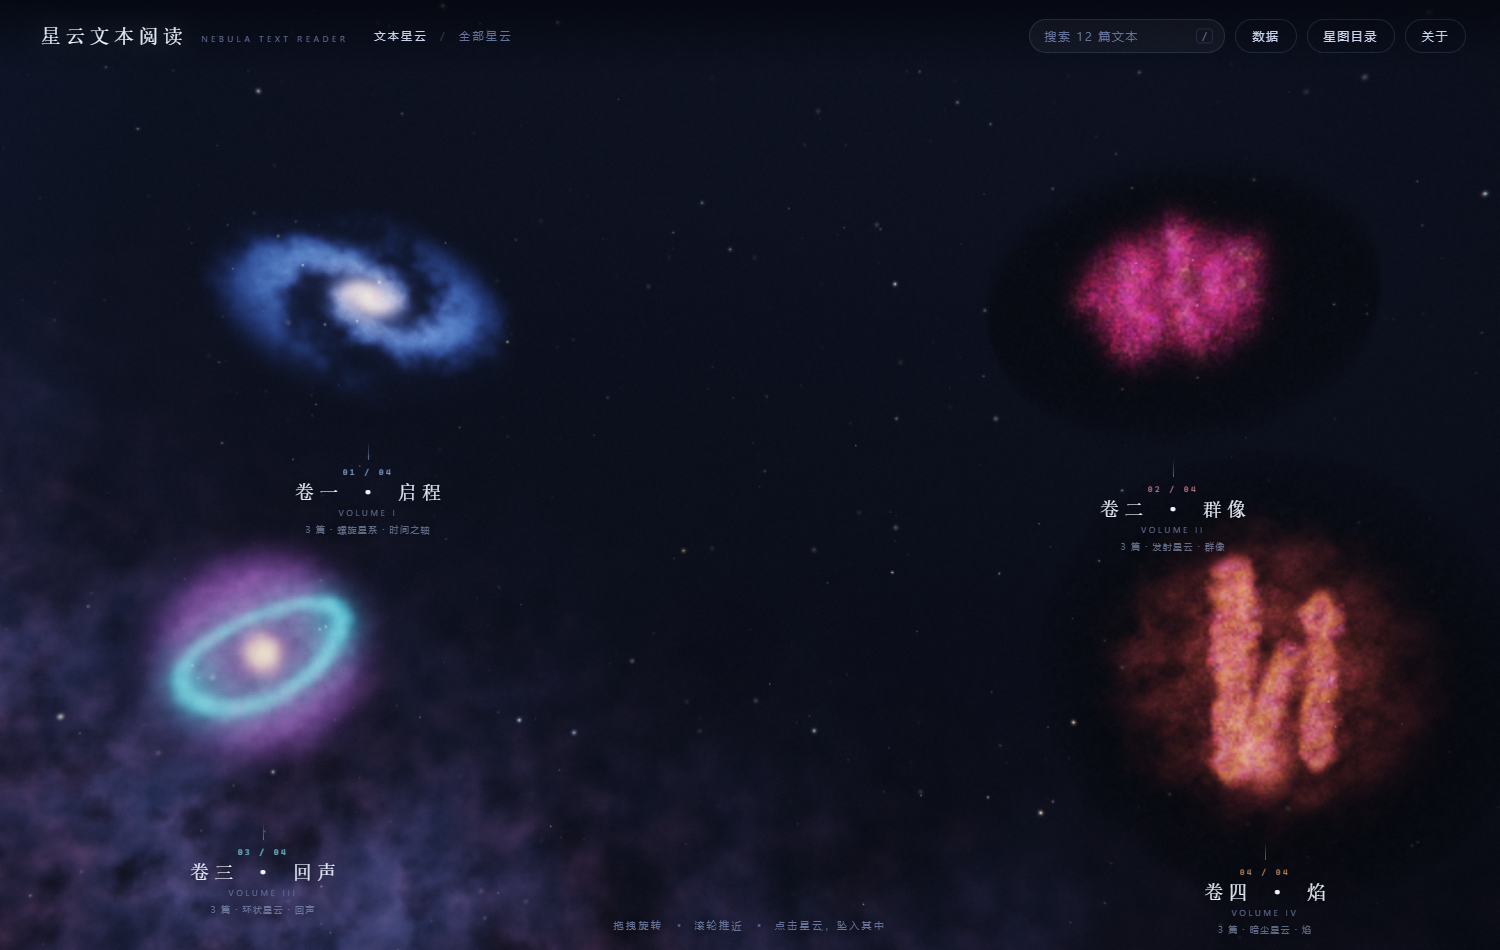
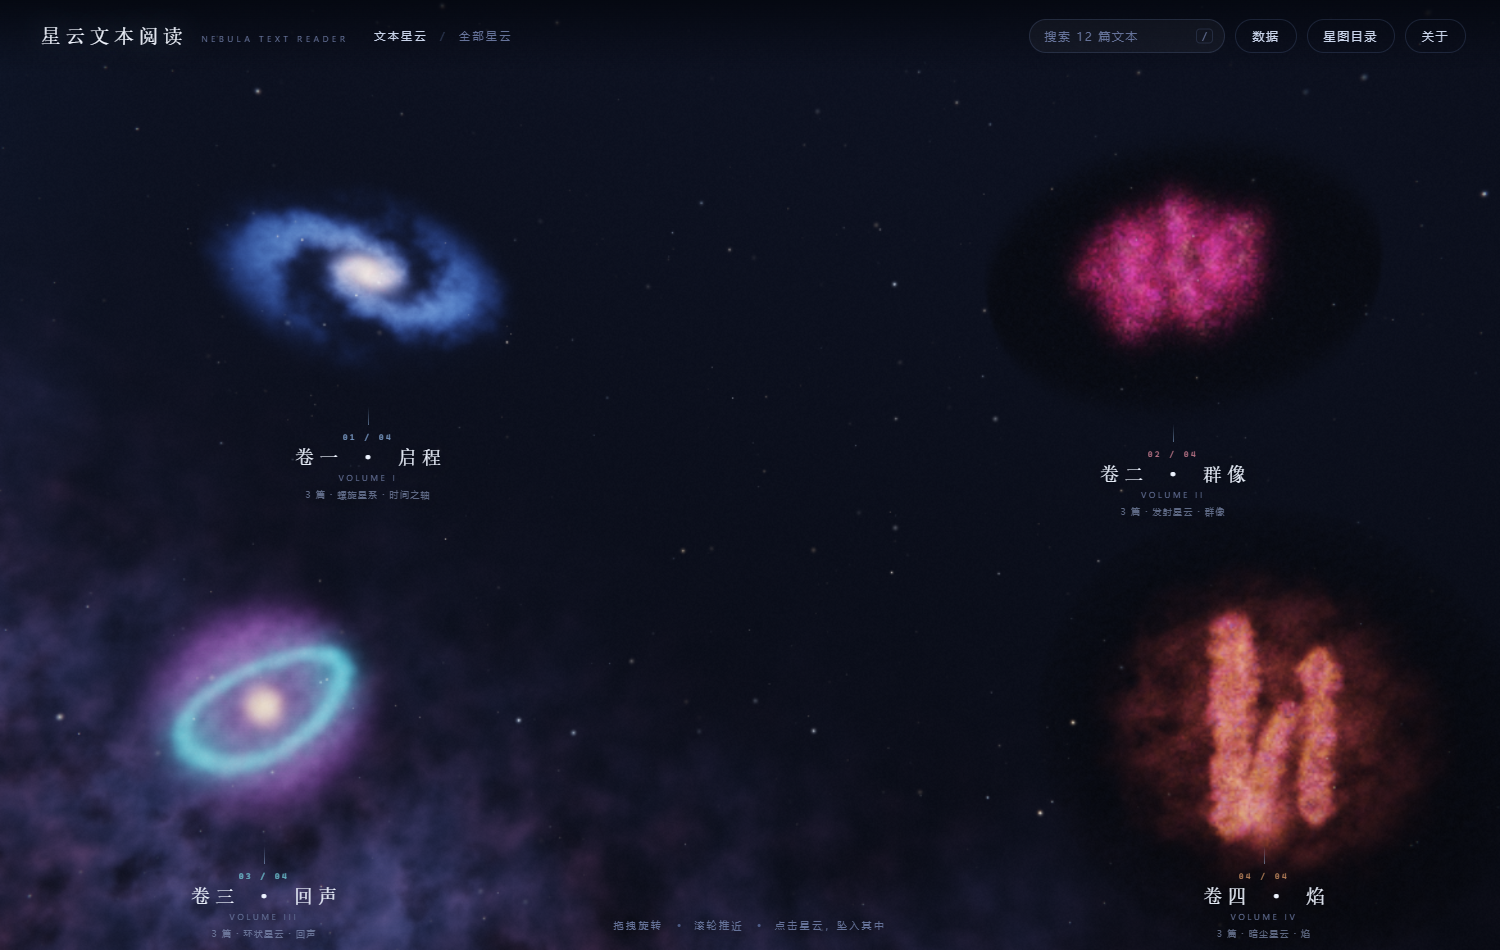
调整星云间距：窗口较矮时名签不再压到下排星云

diff --git a/js/config.js b/js/config.js
@@ -20,7 +20,7 @@
       {
         id: 'g1', group: 'g1', type: 0,
         cn: '卷一 · 启程', en: 'VOLUME I', tag: '螺旋星系 · 时间之轴',
-        center: [-4.95, 2.02, -2.30], radius: 1.40,
+        center: [-4.95, 2.34, -2.30], radius: 1.40,
         tiltX: 0.66, tiltZ: -0.34, spin: 0.030,
         accent: [0.62, 0.80, 1.00], accentCss: '#9ec9ff',
         match: ['卷一', '卷一 · 启程', '启程']
@@ -28,7 +28,7 @@
       {
         id: 'g2', group: 'g2', type: 1,
         cn: '卷二 · 群像', en: 'VOLUME II', tag: '发射星云 · 群像',
-        center: [4.90, 1.98, -1.10], radius: 1.50,
+        center: [4.90, 2.26, -1.10], radius: 1.50,
         tiltX: 0.82, tiltZ: 0.20, spin: -0.018,
         accent: [1.00, 0.58, 0.72], accentCss: '#ff9bb0',
         match: ['卷二', '卷二 · 群像', '群像']
@@ -36,7 +36,7 @@
       {
         id: 'g3', group: 'g3', type: 2,
         cn: '卷三 · 回声', en: 'VOLUME III', tag: '环状星云 · 回声',
-        center: [-4.70, -1.74, 1.70], radius: 1.28,
+        center: [-4.70, -2.26, 1.70], radius: 1.28,
         tiltX: 0.42, tiltZ: 0.30, spin: 0.036,
         accent: [0.45, 0.95, 1.00], accentCss: '#7fe9f2',
         match: ['卷三', '卷三 · 回声', '回声']
@@ -44,7 +44,7 @@
       {
         id: 'g4', group: 'g4', type: 3,
         cn: '卷四 · 焰', en: 'VOLUME IV', tag: '暗尘星云 · 焰',
-        center: [4.78, -1.78, 2.10], radius: 1.42,
+        center: [4.78, -2.30, 2.10], radius: 1.42,
         tiltX: 0.22, tiltZ: -0.14, spin: -0.024,
         accent: [1.00, 0.70, 0.44], accentCss: '#ffb479',
         match: ['卷四', '卷四 · 焰', '焰']

diff --git a/js/ui.js b/js/ui.js
@@ -152,7 +152,7 @@
         const chrome = Math.max(0, outerH - (window.innerHeight || 0));
         const off = chrome > 20 && syPos + outerH > scrH + 8;
         const vh = off ? Math.max(320, scrH - Math.max(syPos, 0)) : (window.innerHeight || 800);
-        const top = Math.min(Math.max(s.y + s.r * 0.98, 96), vh - 108);
+        const top = Math.min(Math.max(s.y + s.r * 0.92, 96), vh - 104);
         el.style.top = top + 'px';
         el.classList.toggle('is-on', !!window.SY.readyForLabels && (!this.r.trans || this.r.trans.dir === 'out'));
         el.classList.toggle('is-dim', this.r.hoverNebula >= 0 && this.r.hoverNebula !== i);

diff --git a/教程.md b/教程.md
@@ -1,4 +1,4 @@
-# 星云文本阅读 —— 使用与二次开发教程
+# 星云文本阅读 —— 使用与二次开发教程
 
 本文分三部分：**怎么用**（1–5 节）、**怎么改**（6–8 节）、**原理与排错**（9–11 节）。
 
@@ -238,10 +238,10 @@ SY.CONFIG = {
 四片星云的推荐布局（当前默认）：
 
 ```js
-center: [-4.95,  2.02, -2.30]
-center: [ 4.90,  1.98, -1.10]
-center: [-4.70, -1.74,  1.70]
-center: [ 4.78, -1.78,  2.10]
+center: [-4.95,  2.34, -2.30]
+center: [ 4.90,  2.26, -1.10]
+center: [-4.70, -2.26,  1.70]
+center: [ 4.78, -2.30,  2.10]
 ```
 
 五到八片时，**最省事的写法是干脆不写 `center`**：程序会自动排成两行，间距 6.6。
